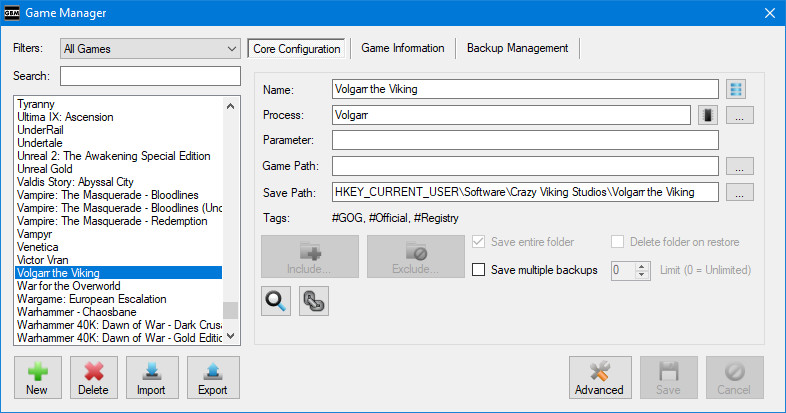
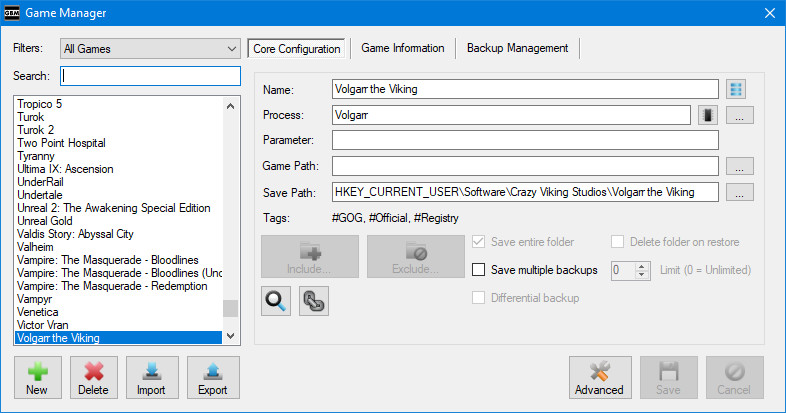
Manual updates for v128

Changed region(s): [[0.0, 0.2324, 0.3053, 0.8426], [0.6107, 0.6973, 0.7328, 0.7554]]

diff --git a/manual.html b/manual.html
@@ -30,10 +30,10 @@
       <div id="leftcontent">
         <div class="pageSection">
           <div class="pageSectionHeader">
-            Game Backup Monitor v1.2.7 Manual
+            Game Backup Monitor v1.2.8 Manual
           </div>
           <div class="pageSectionContent">
-            <h3 class="notop">Updated April 27, 2021</h3>
+            <h3 class="notop">Updated July 20, 2021</h3>
             <h3>Important Notes:</h3>
             <p>An offline version of the manual is available <a href="https://github.com/Darthagnon/gbm-manual">here</a>.  The offline manual is kindly provided by <a href="https://github.com/Darthagnon">Darthagnon</a>.</p>
             <p>This manual may contain information about features not available in the current stable release.</p>
@@ -45,7 +45,15 @@
               <li><a href="#quickstart">Quick Start</a></li>
               <li><a href="#mainoverview">Main Window Overview</a></li>
               <li><a href="#settings">Settings</a></li>
-              <li><a href="#gamemanager">The Game Manager</a></li>
+              <li>
+                <a href="#gamemanager">The Game Manager</a>
+                <ol>
+                  <li><a href="#gmcore">Core Configuration</a></li>
+                  <li><a href="#gminfo">Game Information</a></li>
+                  <li><a href="#gmbackup">Backup Management</a></li>
+                </ol>
+              </li>
+              <li><a href="#differential">Differential Backups</a></li>
               <li><a href="#registry">Windows Registry Backups</a></li>
               <li><a href="#fullbackuprestore">Full Backup and Restore</a></li>
               <li><a href="#search">Search</a></li>
@@ -311,7 +319,7 @@
             <h3>Game Manager Detailed Overview:</h3>
             <p>The Game Manager splits a configuration into three tabbed sections, "Core Configuation", "Game Information" and "Backup Management".  Click the tab button for each section to switch between them.
             <p>The following is advanced information on each field used to configure a game.</p>            
-            <h3>Core Configuration</h3>
+            <h3><a name="gmcore" id="gmcore">Core Configuration</a></h3>
             <h4>Name:</h4>
             <p>The name of the game to monitor.  Multiple entries with the same name are allowed.</p>
             <h4>Game ID:</h4>
@@ -454,7 +462,7 @@
             <h4>OS:</h4>
             <p>This is the target operating system of the configuration, the OS field is hidden and cannot be modified in Windows.</p>
             <p>This field allows Linux users to manage native and Windows games in the same list.</p>            
-            <h3>Game Information</h3>
+            <h3><a name="gminfo" id="gminfo">Game Information</a></h3>
             <img class="manual" src="images/manual/manual_35.jpg" width="786" height="413" alt="Game Manager" />
             <h4>Comments:</h4>
             <p>This is used to store any extra information about the configuration.</p>            
@@ -464,7 +472,7 @@
             <p>You can manually set a version value to be displayed when the game is detected. This takes priority over the version information detected from the game's executable.</p>
             <h4>Icon:</h4>
             <p>You can manually set a icon to be displayed when the game is detected. This takes priority over the icon used by the game's executable.</p>            
-            <h3>Backup Management</h3>
+            <h3><a name="gmbackup" id="gmbackup">Backup Management</a></h3>
             <img class="manual" src="images/manual/manual_36.jpg" width="786" height="413" alt="Game Manager" />
             <h4>Backup Data:</h4>
             <p>This field lists all the available backup data.  You may select older entries if you need to restore or delete it.</p>
@@ -494,6 +502,42 @@
             <h4>Restore:</h4>
             <p>The <img class="manualbutton" src="images/manual/buttons/Multi_Restore.png" width="16" height="16" alt="Restore Folder" /> (Restore) button will trigger a restore of the currently selected backup data.</p>
             <p>When multiple games are selected, GBM will trigger a restore of the latest backup data for each selected game.</p>
+          </div>
+          <div class="pageSectionFooter">
+            <a href="#toc">Back to Contents</a>
+          </div>
+        </div>
+        <div class="pageSection">
+          <div class="pageSectionHeader">
+            <a name="differential" id="differential">Differential Backups</a>
+          </div>
+          <div class="pageSectionContent">
+            <p>Game Backup Monitor supports using the differential backup method, it can be enabled for specific games by using the "Differential backup" checkbox on the Game Manager.</p>
+            <p>This method involves creating a full backup, then having the following backups only save the changes made since the last full backup.</p>
+            <p>For most games, using the differential backup method will have no benefit and is not recommended.  However for games with extremely large saved game folders (such as Kenshi or Project Zomboid) using the differential backup method may save a lot of time and storage space.</p>
+            <img class="manual" src="images/manual/manual_37.jpg" width="786" height="413" alt="Differential Backups" />
+            <h4>Important Details:</h4>
+            <ul>
+              <li>The "Differential backup" option will change the interface when enabled and allow you to set a "Full backup interval" value.
+                <ul>
+                  <li>This value is the maximum amount of differential backups between each full backup.</li>
+                  <li>An interval value is highly recommended, since the efficiency of differential backups will decrease over time as more and more changes are made to a saved game folder.</li>
+                  <li>A value of zero means there is no interval and only a single full backup will be created.  This is not recommended, but may be useful if you'd like to micromanage your backups.</li>
+                </ul>    
+              </li>
+              <li>GBM will properly handle backups (Full or Differential) based on their type.  For example:
+                <ul>
+                  <li>Restoring a differential backup will automatically trigger the restore of it's associated full backup first.</li>
+                  <li>Deleting a full backup will automatically delete any associated differential backups.</li>
+                </ul>
+              </li>
+              <li>Full and differential backups may be imported just like any other backup file.
+                <ul>
+                  <li>When importing a differential backup, it's associated full backup must be imported first.  GBM will take care of this automatically when importing entire folders.</li>
+                </ul>
+              </li>
+              <li>The filenames of full backups will be appended with "- Full" and differential backups with "- Diff"</li>
+            </ul>
           </div>
           <div class="pageSectionFooter">
             <a href="#toc">Back to Contents</a>
